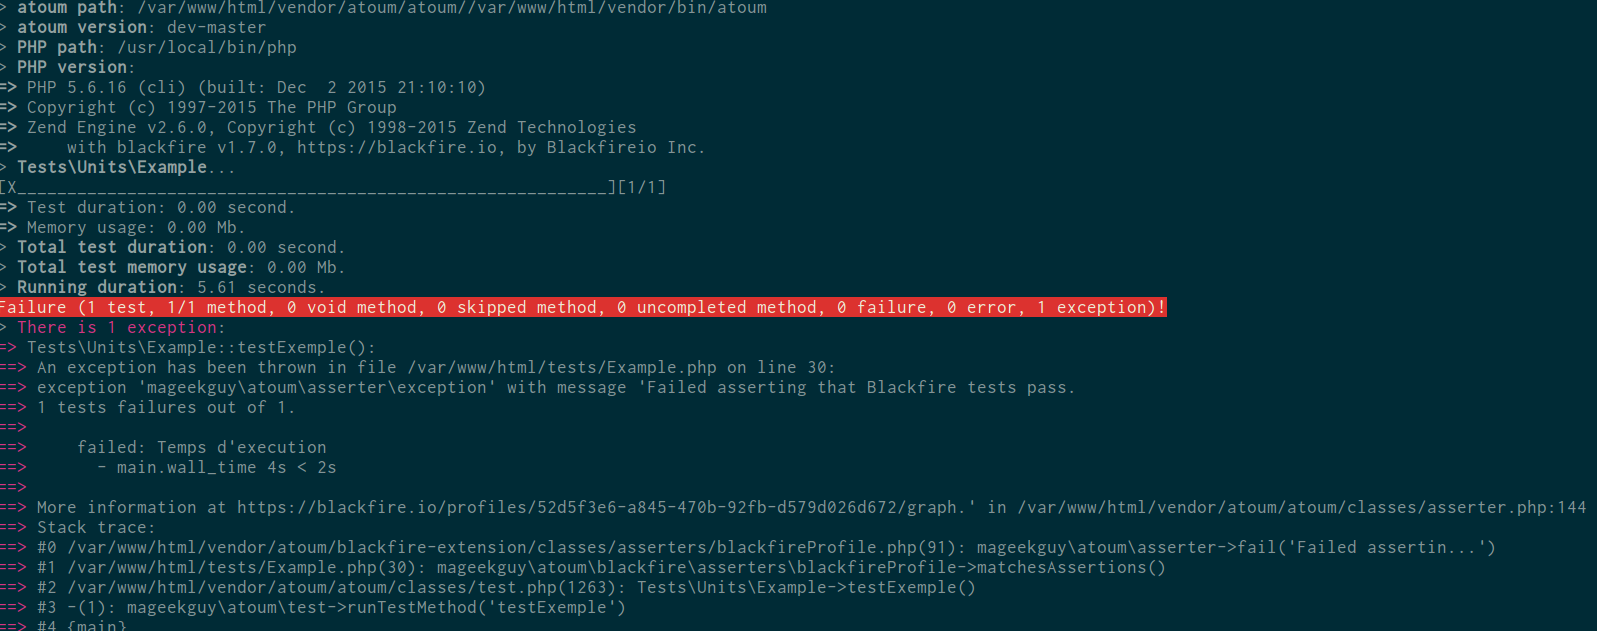
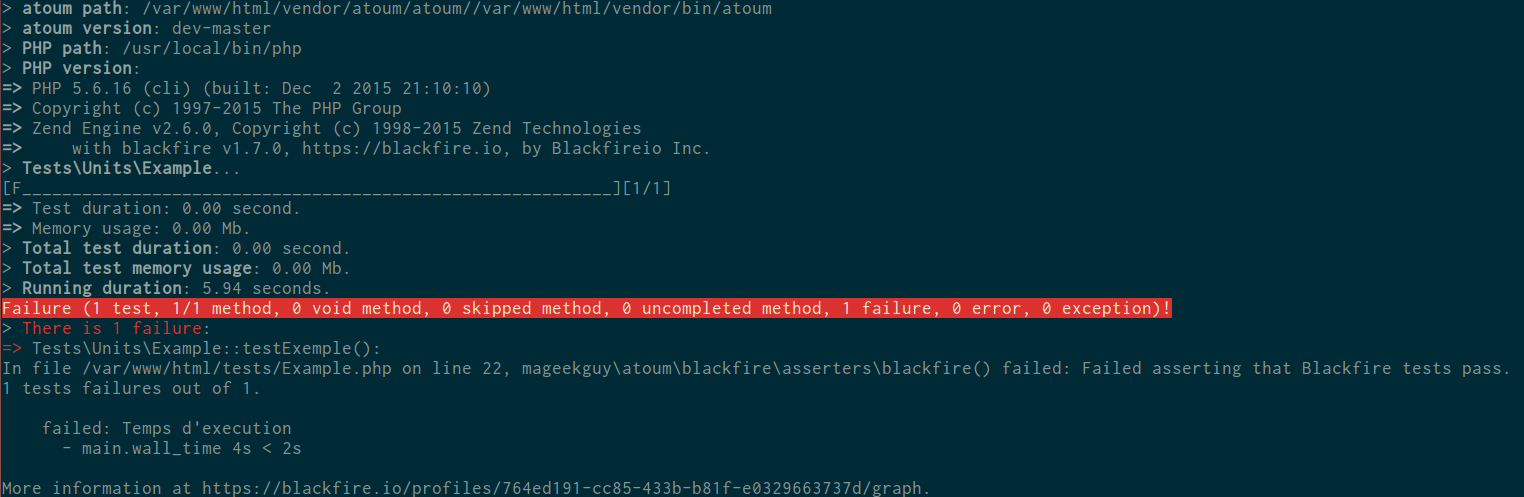
:memo: update documentation

Changed region(s): [[0.0, 0.0, 1.0, 1.0], [0.4009, 0.3622, 0.4318, 0.3924]]

diff --git a/README.md b/README.md
@@ -17,39 +17,32 @@ use atoum;
 
 class Example extends atoum
 {
-    protected $blackfire;
+    private $blackfireClient;
 
     public function testExemple()
     {
-        $config = new \Blackfire\Profile\Configuration();
-        $config
-            ->assert('main.wall_time < 2s', "Temps d'execution")
-        ;
-
-        $callback = function() {
-
-            sleep(4);
-
-            //some code and/or atoum assertions
-            $this->boolean(true)->isTrue();
-        };
-
         $this
-            ->blackfireProfile($this->getBlackfireClient(), $callback, $config)
-            ->matchesAssertions()
+            ->blackfire($this->getBlackfireClient())
+                ->assert('main.wall_time < 2s', "Temps d'execution")
+                ->profile(function() {
+                    sleep(4);
+                    //some code of atoum assertions
+                    $this->boolean(true)->isTrue();
+                })
         ;
     }
 
     private function getBlackfireClient()
     {
-        if (null === $this->blackfire) {
+        if (null === $this->blackfireClient) {
             $config = new \Blackfire\ClientConfiguration($_ENV['BLACKFIRE_CLIENT_ID'], $_ENV['BLACKFIRE_CLIENT_TOKEN']);
-            $this->blackfire = new \Blackfire\Client($config);
+            $this->blackfireClient = new \Blackfire\Client($config);
         }
 
-        return $this->blackfire;
+        return $this->blackfireClient;
     }
 }
+
 ```
 
 When running this test, the callback will be automatically instrumented and execute on Blackfire the assertions defined by the Configuration. If they fail, an atoum error will be displayed.The above example will have this output : 
